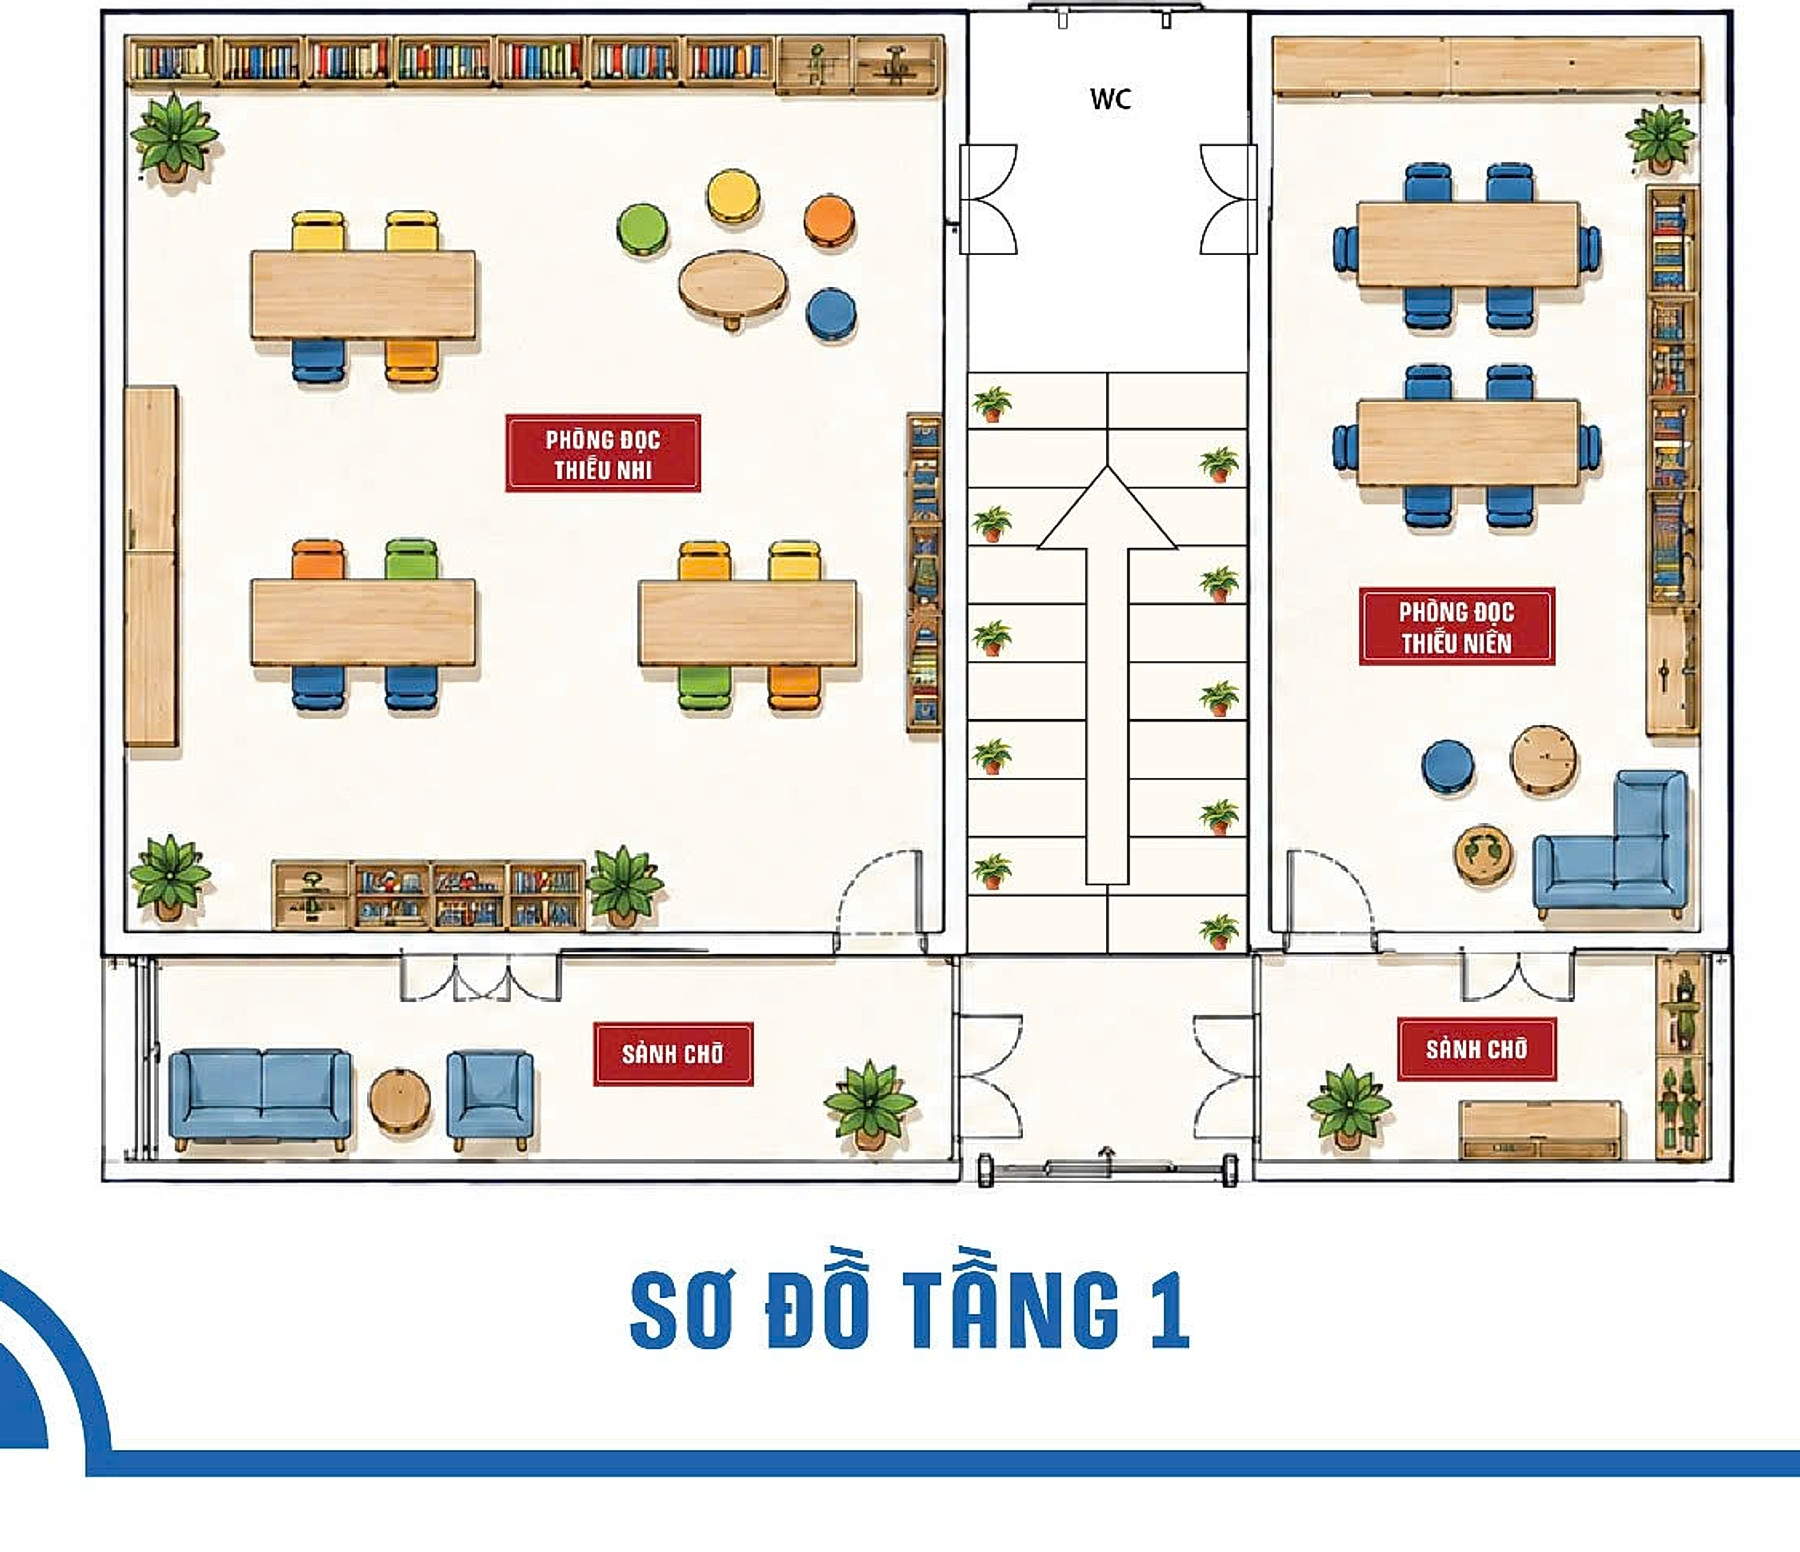
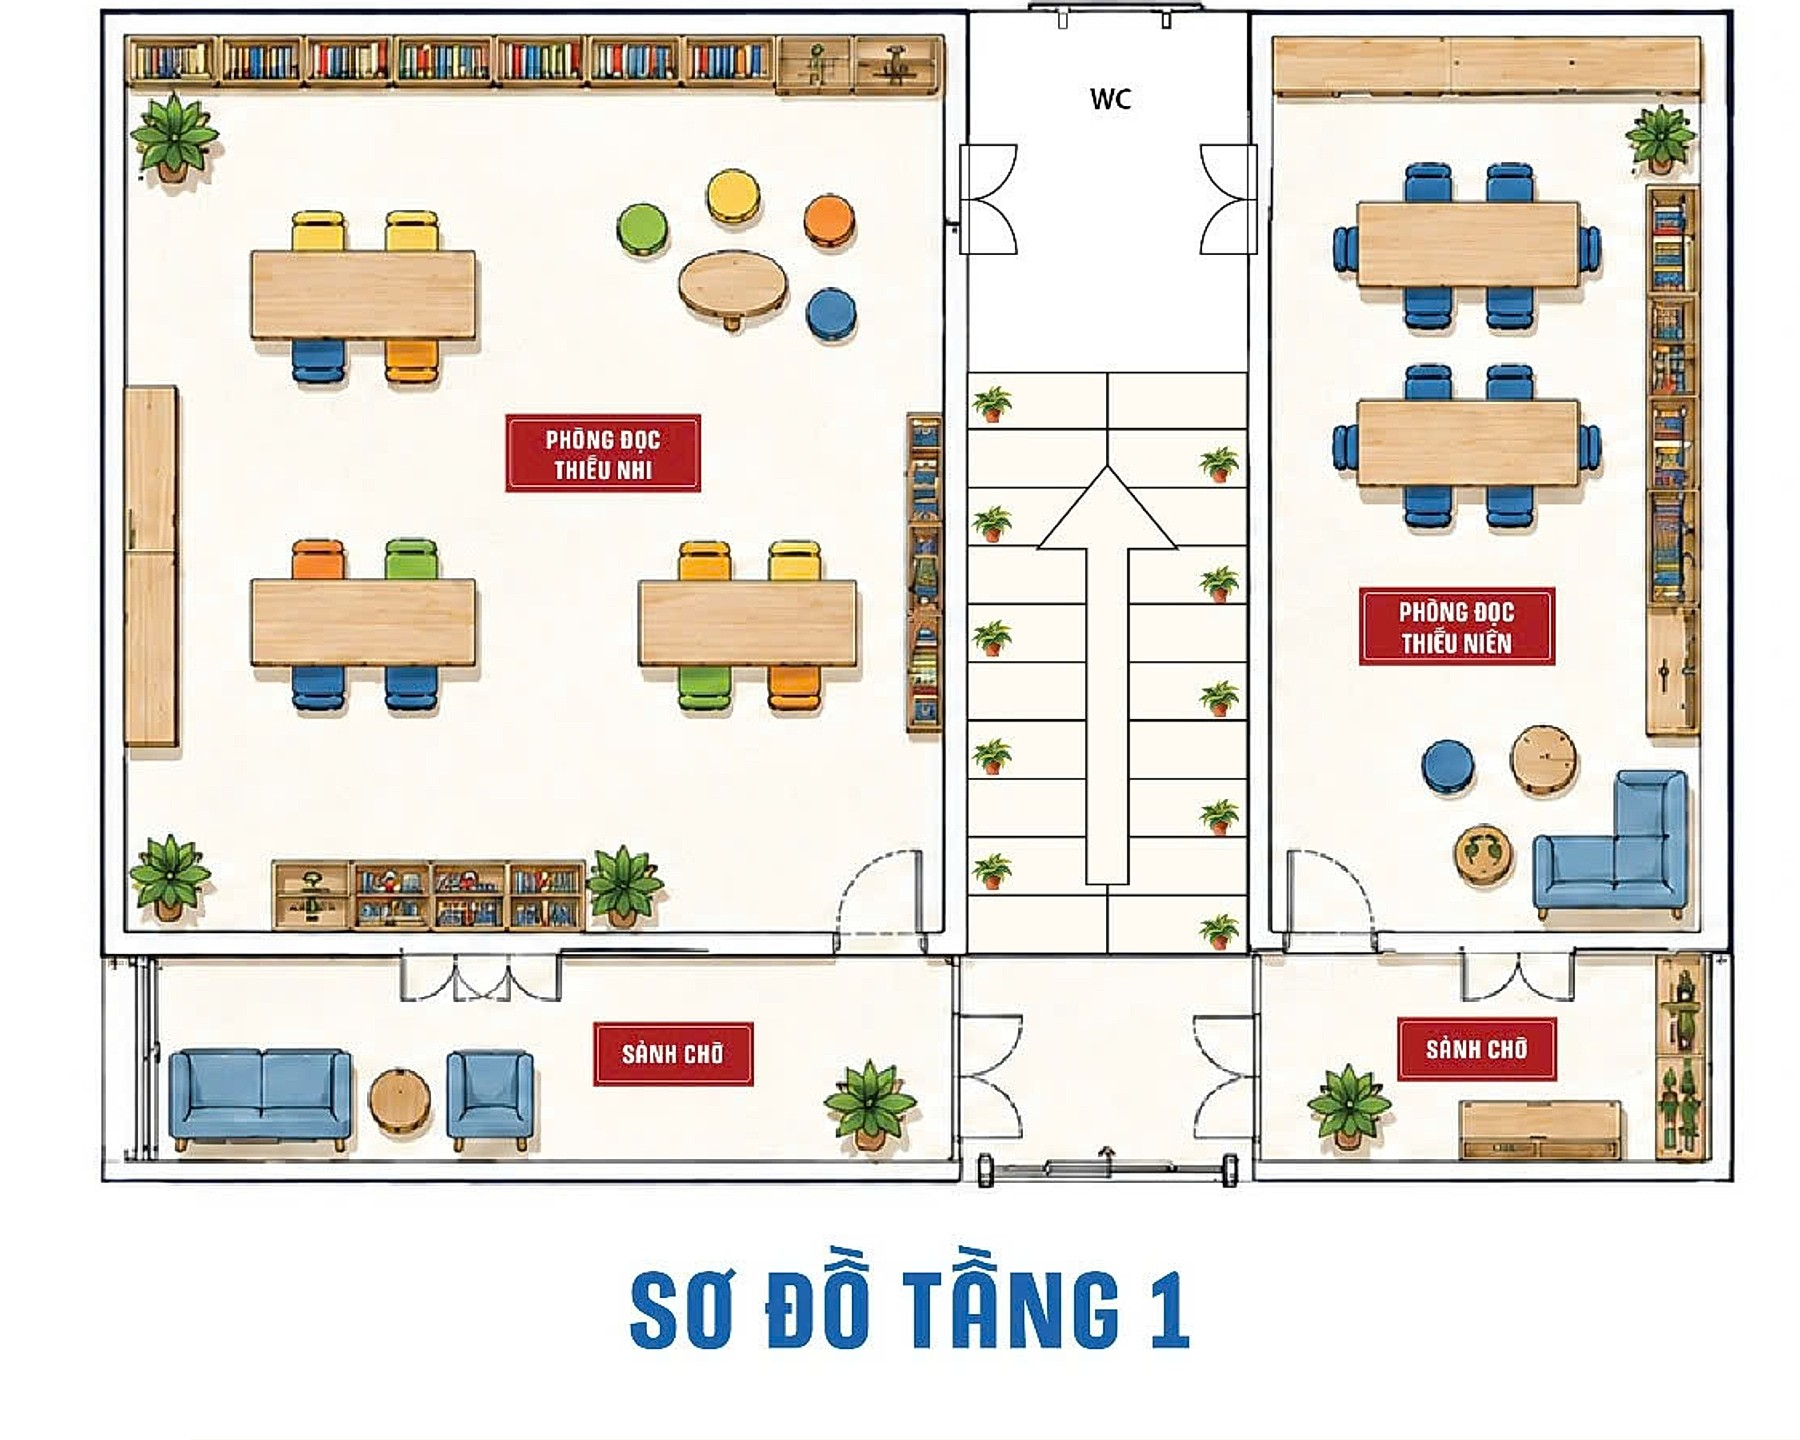
Remove decorative map borders

diff --git a/src/app/map/page.tsx b/src/app/map/page.tsx
@@ -61,7 +61,7 @@ export default function MapPage() {
     >
       <div className="grid grid-cols-1 gap-6 xl:grid-cols-[1.35fr_0.65fr] xl:gap-8">
         <section className="rounded-[1.5rem] bg-white p-3 shadow-kiosk ring-4 ring-white sm:p-4 lg:rounded-[2rem]">
-          <div className="relative aspect-[1800/1552] w-full overflow-hidden rounded-[1.15rem] bg-mist lg:rounded-[1.5rem]">
+          <div className="relative aspect-[1800/1440] w-full overflow-hidden rounded-[1.15rem] bg-mist lg:rounded-[1.5rem]">
             <Image
               src={activeFloor.src}
               alt={t(activeFloor.alt)}
